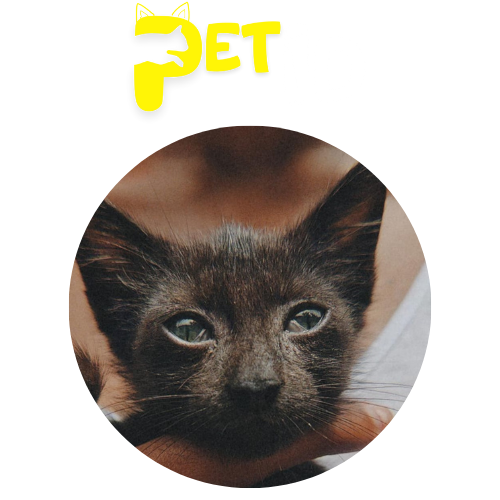
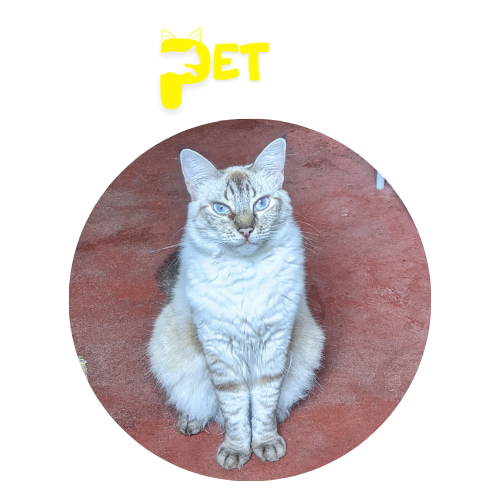
Add files via upload

diff --git a/style.css b/style.css
@@ -14,7 +14,7 @@
 }
 
 /* media queries */
-@media (min-width: 700px) {
+@media (min-width: 600px) {
     :root {
         --bg-url: url(./assets/bg-desktop.jpg);
     }
@@ -36,7 +36,10 @@
 
 body {
     background: var(--bg-url) no-repeat top center/cover;
-    height: 100vh;
+    min-height: 100vh; /* Mudança para min-height para ocupar pelo menos a altura da tela */
+    display: flex; /* Usando flexbox para ajustar o conteúdo verticalmente */
+    justify-content: center; /* Alinhamento vertical centralizado */
+    align-items: center; /* Alinhamento horizontal centralizado */
 }
 
 body * {
@@ -47,29 +50,22 @@ body * {
 #container {
     width: 100%;
     max-width: 588px;
-    margin: 56px auto 0px;
     padding: 0 24px;
 }
 
 /* profile */
 #profile {
     text-align: center;
-    padding: 100px;
+    padding: 50px 0; /* Ajustando o padding para ser mais responsivo */
 }
 
 #profile img {
-    width: 250px;
-}
-
-#profile p {
-    font-weight: 500;
-    line-height: 24px;
-    margin-top: 10px;
+    max-width: 100%; /* Garantindo que a imagem não ultrapasse o contêiner */
+    height: auto; /* Mantendo a proporção da imagem */
 }
 
 /* switch */
 #switch {
-    position: relative;
     width: 64px;
     margin: 4px auto;
 }
@@ -85,7 +81,6 @@ body * {
     left: 0;
     z-index: 1;
     transform: translateY(-50%);
-
     animation: slide-back 0.2s;
 }
 
@@ -121,7 +116,6 @@ ul li a {
     align-items: center;
     justify-content: center;
     padding: 16px 24px;
-    /* background: var(--surface-color); */
     border: 1px solid var(--stroke-color);
     border-radius: 8px;
     backdrop-filter: blur(4px);
@@ -185,4 +179,3 @@ footer {
         left: 0;
     }
 }
-

diff --git a/index.html b/index.html
@@ -20,8 +20,8 @@
         <div id="profile">
             <img src="./assets/avatar.png" alt="">
 
-
-            <p>Afonso Ferreira Rocha</p>
+            <p>Abigail Ferreira Rocha</p>
+            <p>Olá, você me achou! Me chamo Abigail e estou perdido. Entre em contato com os meus tutores nos contatos abaixo!</p>
         </div>
 
         <div id="switch" onclick="toggleMode()">
@@ -31,10 +31,17 @@
 
         <ul>
             <li>
-                <a href="https://api.whatsapp.com/send?phone=5582987285473">Whatsapp </a>
+                <a href="https://api.whatsapp.com/send?phone=5582987285473"> Ruth M. Rocha - Whatsapp </a>
             </li>
             <li>
-                <a href="https://www.instagram.com/ruthrocha_/">Instagram</a>
+                <a href="https://api.whatsapp.com/send/?phone=5582994266310&text&type=phone_number&app_absent=0"> Julio C. Ferreira - Whatsapp </a>
+            </li>
+            <li>
+                <a href="https://www.instagram.com/ruthrocha_/">Ruth M. Rocha - Instagram</a>
+            </li>
+
+            <li>
+                <a href="https://www.instagram.com/jcferreiraa_/">Julio C. Ferreira - Instagram</a>
             </li>
             <li>
                 <a href="https://www.google.com/maps/place/rua+zacarias+de+azevedo,+10/@-9.6716682,-35.7474154,3a,75y,315.8h,90t/data=!3m4!1e1!3m2!1sCAHgVTiV54tqALuV4JXTcg!2e0!4m2!3m1!1s0x7014f8ec1e4ccaf:0x47024951ecad0edf?entry=ttu">Maps</a>
